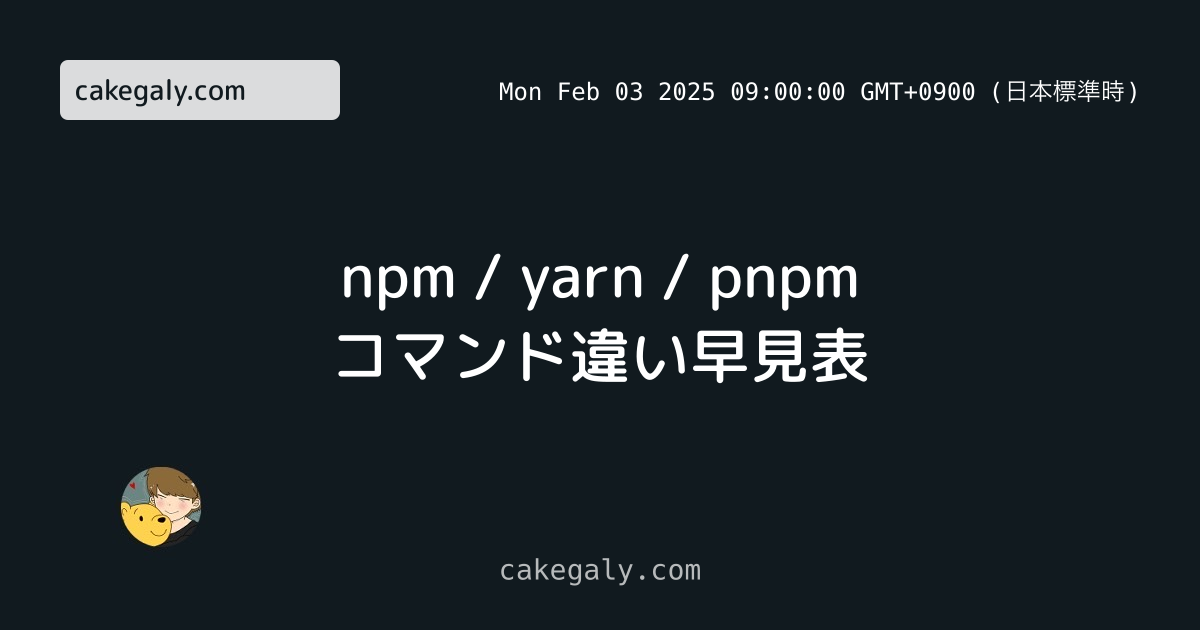
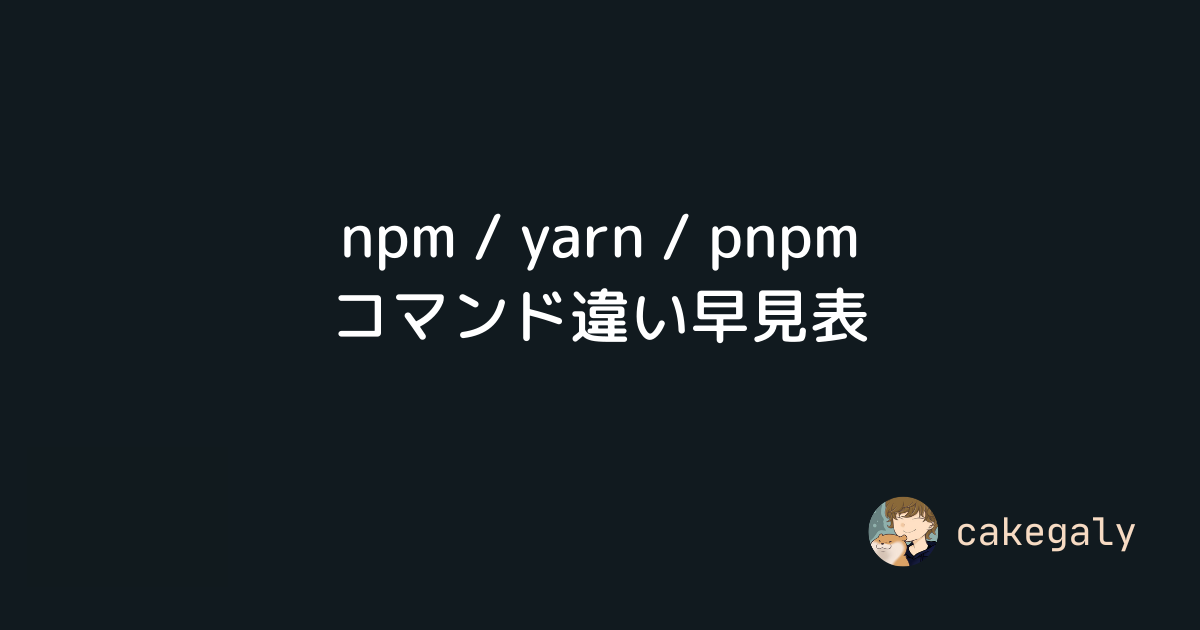
feat: update og image

diff --git a/scripts/generate-ogp.ts b/scripts/generate-ogp.ts
@@ -11,11 +11,11 @@ const OUTPUT_DIR = './public/ogp';
 const BACKGROUND_IMAGE = './public/og.png';
 
 registerFont('./src/assets/fonts/HackNerdFontMono-Regular.ttf', {
-  family: 'Hack',
+  family: 'Mono',
 });
 
 registerFont('./src/assets/fonts/MPLUSRounded1c-Medium.ttf', {
-  family: 'MPLUSRounded',
+  family: 'Sans',
 });
 
 (async function main() {
@@ -34,46 +34,24 @@ async function generateOGP(title: string, slug: string, date?: string) {
   const canvas = createCanvas(WIDTH, HEIGHT);
   const ctx = canvas.getContext('2d');
 
-  // background
   const bgImage = await loadImage(BACKGROUND_IMAGE);
   ctx.drawImage(bgImage, 0, 0, WIDTH, HEIGHT);
 
-  // site name
-  ctx.fillStyle = 'rgba(255, 255, 255, 0.85)';
-  ctx.roundRect(60, 60, 280, 60, 8);
-  ctx.fill();
-
-  // site domain
-  ctx.fillStyle = '#111A1F';
-  ctx.font = 'bold 28px "MPLUSRounded"';
-  ctx.fillText('cakegaly.com', 75, 100);
-
-  // pub date
-  if (date) {
-    ctx.fillStyle = 'white';
-    ctx.font = '24px "Hack"';
-    ctx.textAlign = 'right';
-    ctx.fillText(date, WIDTH - 60, 100);
-  }
-
-  // title
   ctx.fillStyle = 'white';
-  ctx.font = 'bold 60px "MPLUSRounded"';
+  ctx.font = 'bold 60px "Sans"';
   ctx.textAlign = 'center';
   ctx.textBaseline = 'middle';
 
   const maxWidth = WIDTH - 160;
   const lines = wrapText(ctx, title, maxWidth);
   const lineHeight = 80;
-  const startY = HEIGHT / 2 - (lines.length - 1) * (lineHeight / 2);
+
+  const totalTextHeight = lines.length * lineHeight;
+  const startY = (HEIGHT - totalTextHeight) / 2;
 
   lines.forEach((line, i) => {
     ctx.fillText(line, WIDTH / 2, startY + i * lineHeight);
   });
-
-  ctx.fillStyle = 'rgba(255, 255, 255, 0.7)';
-  ctx.font = '28px "Hack"';
-  ctx.fillText('cakegaly.com', WIDTH / 2, HEIGHT - 60);
 
   const outputPath = path.join(OUTPUT_DIR, `${slug}.png`);
   fs.writeFileSync(outputPath, canvas.toBuffer('image/png'));
